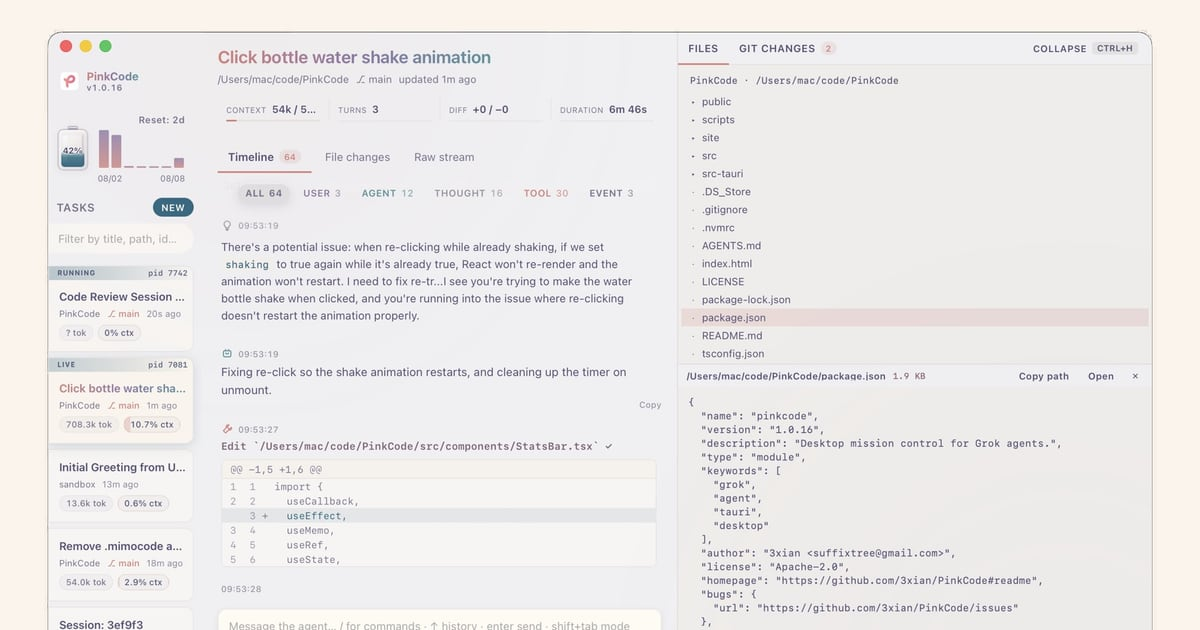
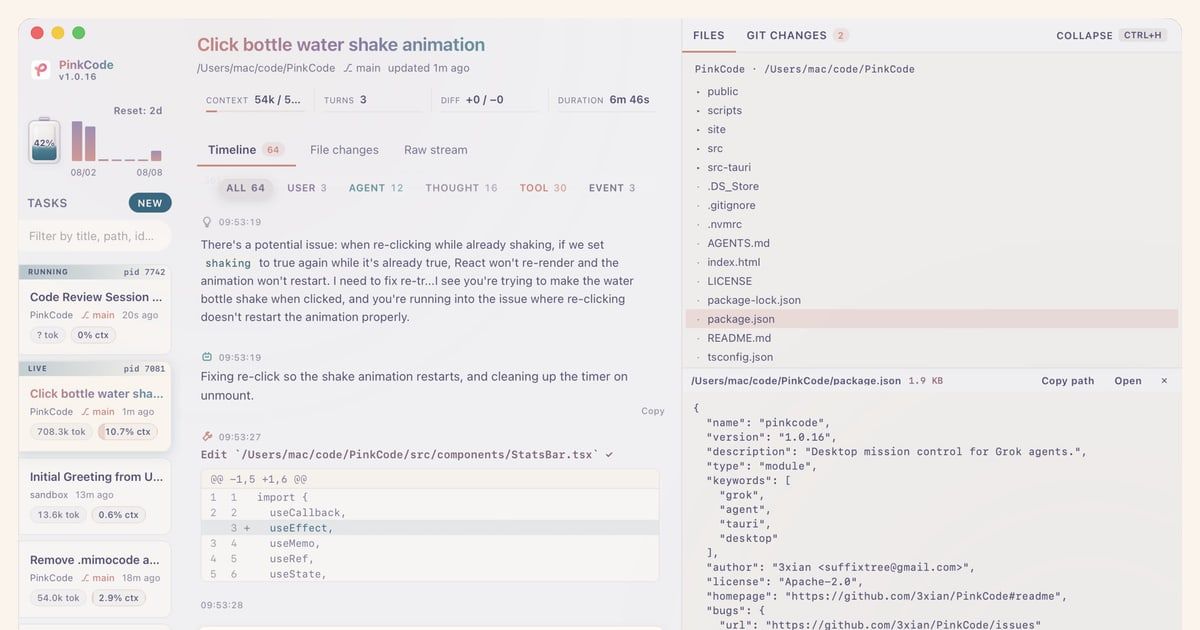
docs: ship cream-backed product shot under a new path
Replace the black-margin screenshot with a Rose Pine cream backdrop,
tighter crop, and a new docs/product.jpg URL so README/CDN caches drop
the old black-background image.

diff --git a/site/index.html b/site/index.html
@@ -92,10 +92,10 @@
         <div class="product-frame">
           <img
             class="product-shot"
-            src="./assets/screenshot.jpg"
+            src="./assets/product.jpg"
             alt="PinkCode showing parallel tasks, filtered live timeline, usage meter, and workspace files"
             width="1400"
-            height="886"
+            height="858"
             decoding="async"
             loading="eager"
             fetchpriority="high"
@@ -207,7 +207,7 @@
             <div class="file-stack" aria-hidden="true">
               <span>src/styles/agent.css</span><span class="delta">M</span>
               <span>src/styles/overlays.css</span><span class="delta">M</span>
-              <span>docs/screenshot.jpg</span><span class="delta plus">A</span>
+              <span>docs/product.jpg</span><span class="delta plus">A</span>
             </div>
           </article>
 

diff --git a/site/styles.css b/site/styles.css
@@ -471,8 +471,8 @@ h1 {
   width: 100%;
   max-width: 100%;
   height: auto;
-  /* Lock ratio to the compressed shot (1400×886). */
-  aspect-ratio: 1400 / 886;
+  /* Lock ratio to the compressed shot (1400×858). */
+  aspect-ratio: 1400 / 858;
   object-fit: contain;
   object-position: center;
 }
@@ -1114,7 +1114,7 @@ footer > div:last-child {
   .product-shot {
     width: 100%;
     height: auto;
-    aspect-ratio: 1400 / 886;
+    aspect-ratio: 1400 / 858;
     object-fit: contain;
   }
 

diff --git a/README.md b/README.md
@@ -28,7 +28,7 @@ Run multiple [Grok Build](https://x.ai/cli) tasks side by side, follow every tas
 ## Screenshot
 
 <p align="center">
-  <img src="docs/screenshot.jpg" alt="PinkCode — parallel tasks, live Timeline, usage, workspace" width="100%" />
+  <img src="docs/product.jpg" alt="PinkCode — parallel tasks, live Timeline, usage, workspace" width="100%" />
 </p>
 
 ## Features
